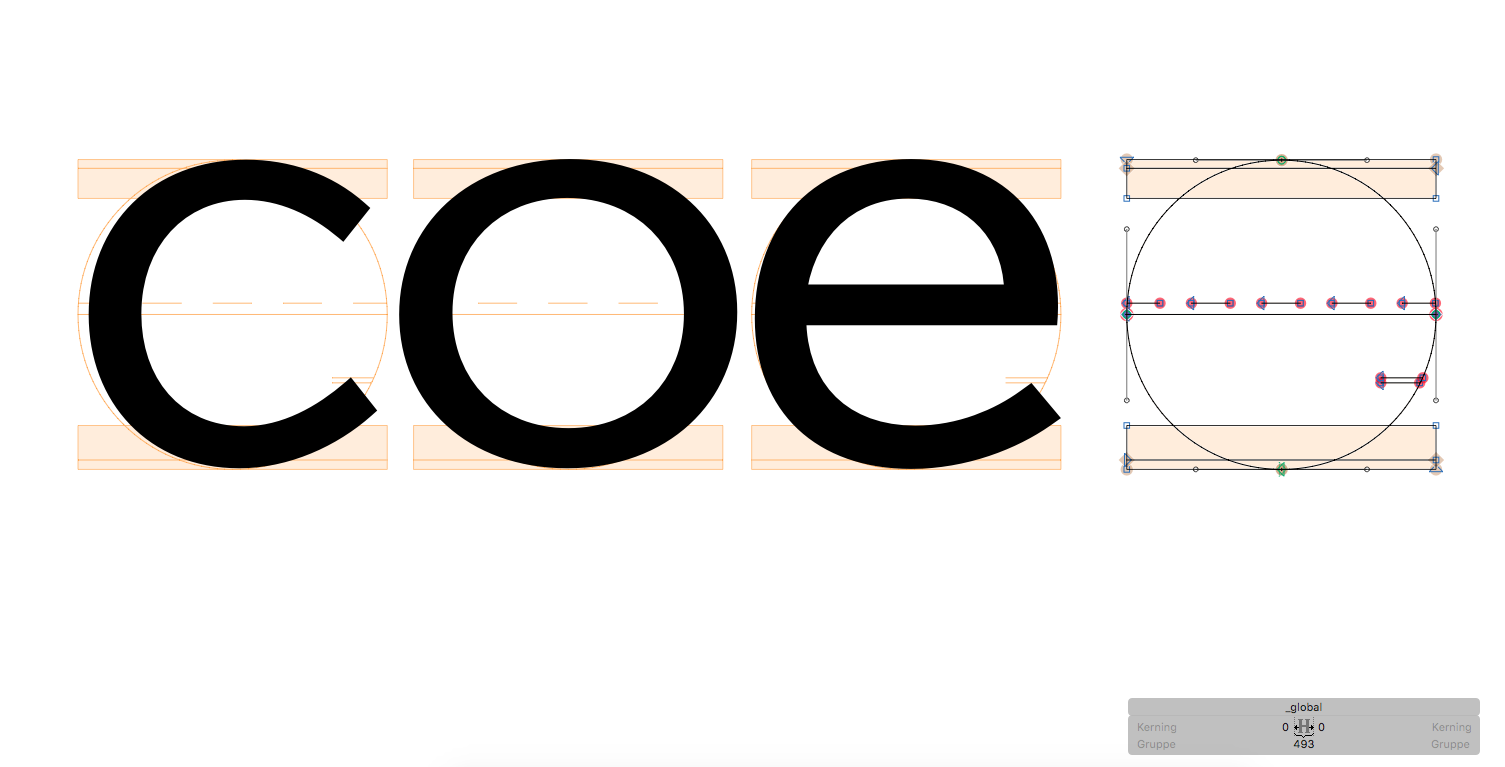
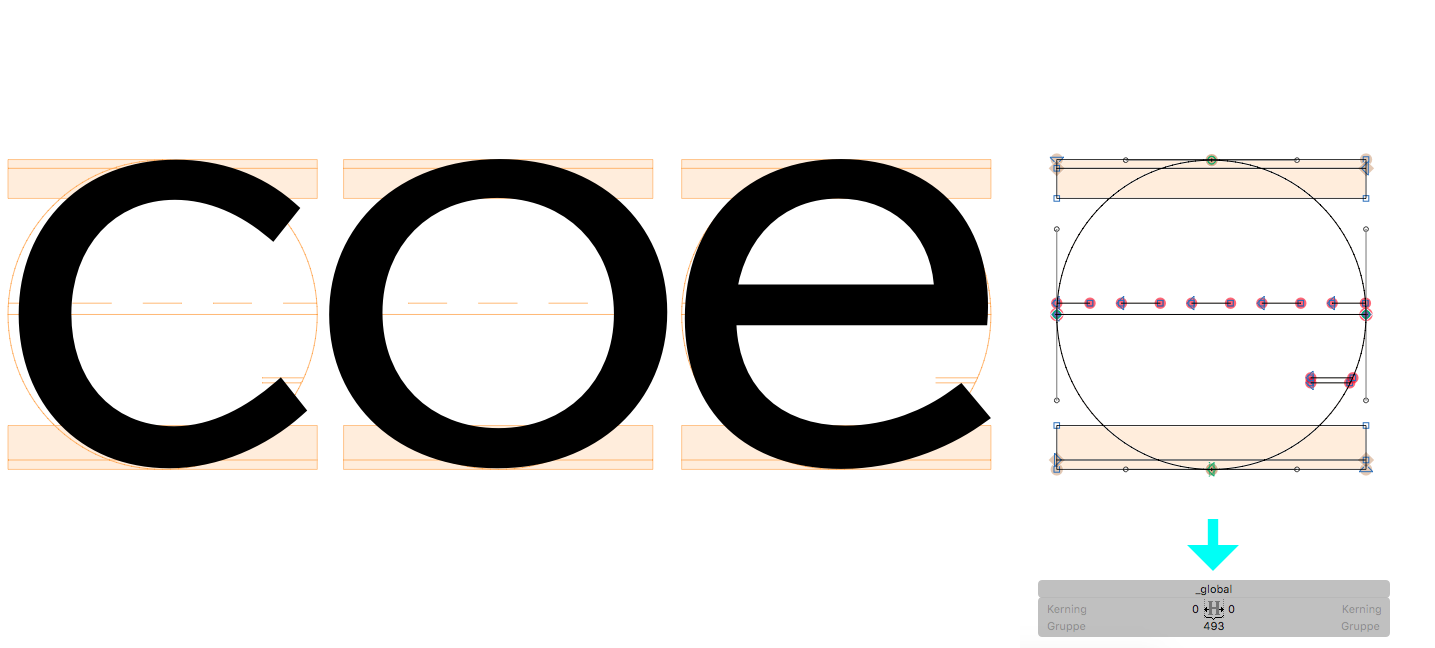
update read and screenshot

diff --git a/Show-Global-Glyph/README.md b/Show-Global-Glyph/README.md
@@ -4,9 +4,14 @@
 
 This is a Plugin for the [Glyphs font editor](http://glyphsapp.com/). It displays a Glyph called *_global* in the Background of other Glyphs. This can give an alternative to Global Guidelines.
 
-### How to use
+### Install
 
 Download or clone the whole `Glyphsapp-Plugins`repo (it will contain more plugins soon) and copy the `ShowNodeCount.glyphsReporter` into your Glyphsapp Plugins folder (eg. `/Library/Application\ Support/Glyphs/Plugins`), restart Glyphs and when ever you need it, toggle Plugin from the view menu.
+
+### How to use
+
+You have do add a Glyph called *_global*. This one will show in Background of each Glyph while using this Plugin.
+Now you can draw every Form or stroke to be shown. To show strokes use an absolute setup form and use a overlayed double path (see Screenshot below).
 
 ### Examples
 
@@ -18,7 +23,7 @@ Download or clone the whole `Glyphsapp-Plugins`repo (it will contain more plugin
 
 ### ToDo
 
-- None so far
+- Set the Global-Glyph centred
 
 ### Pull Requests
 
